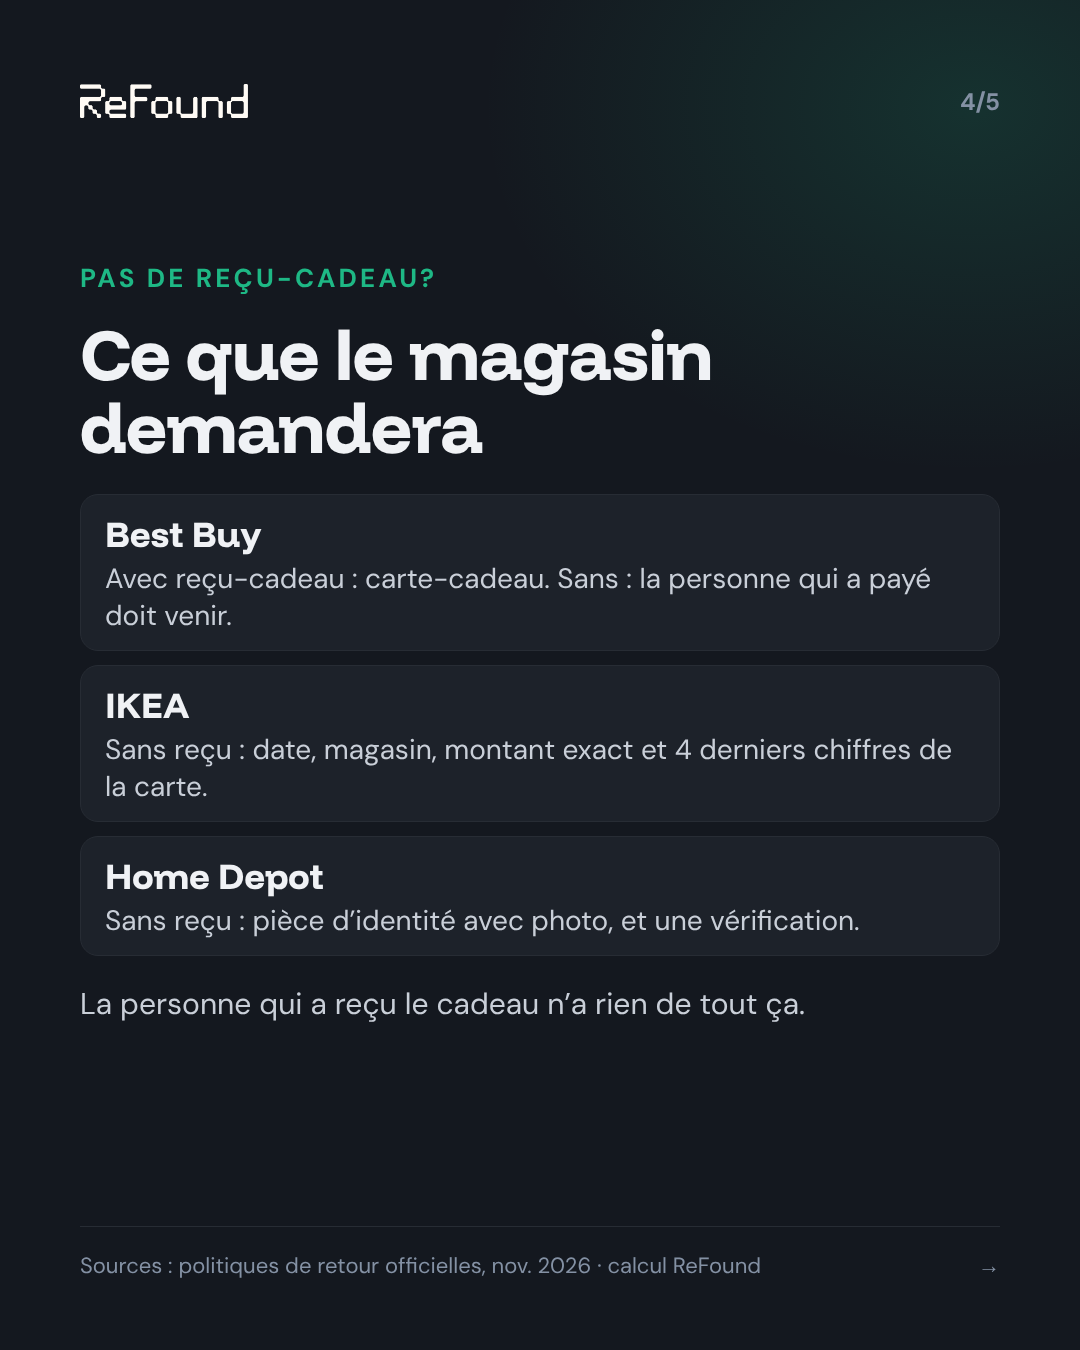
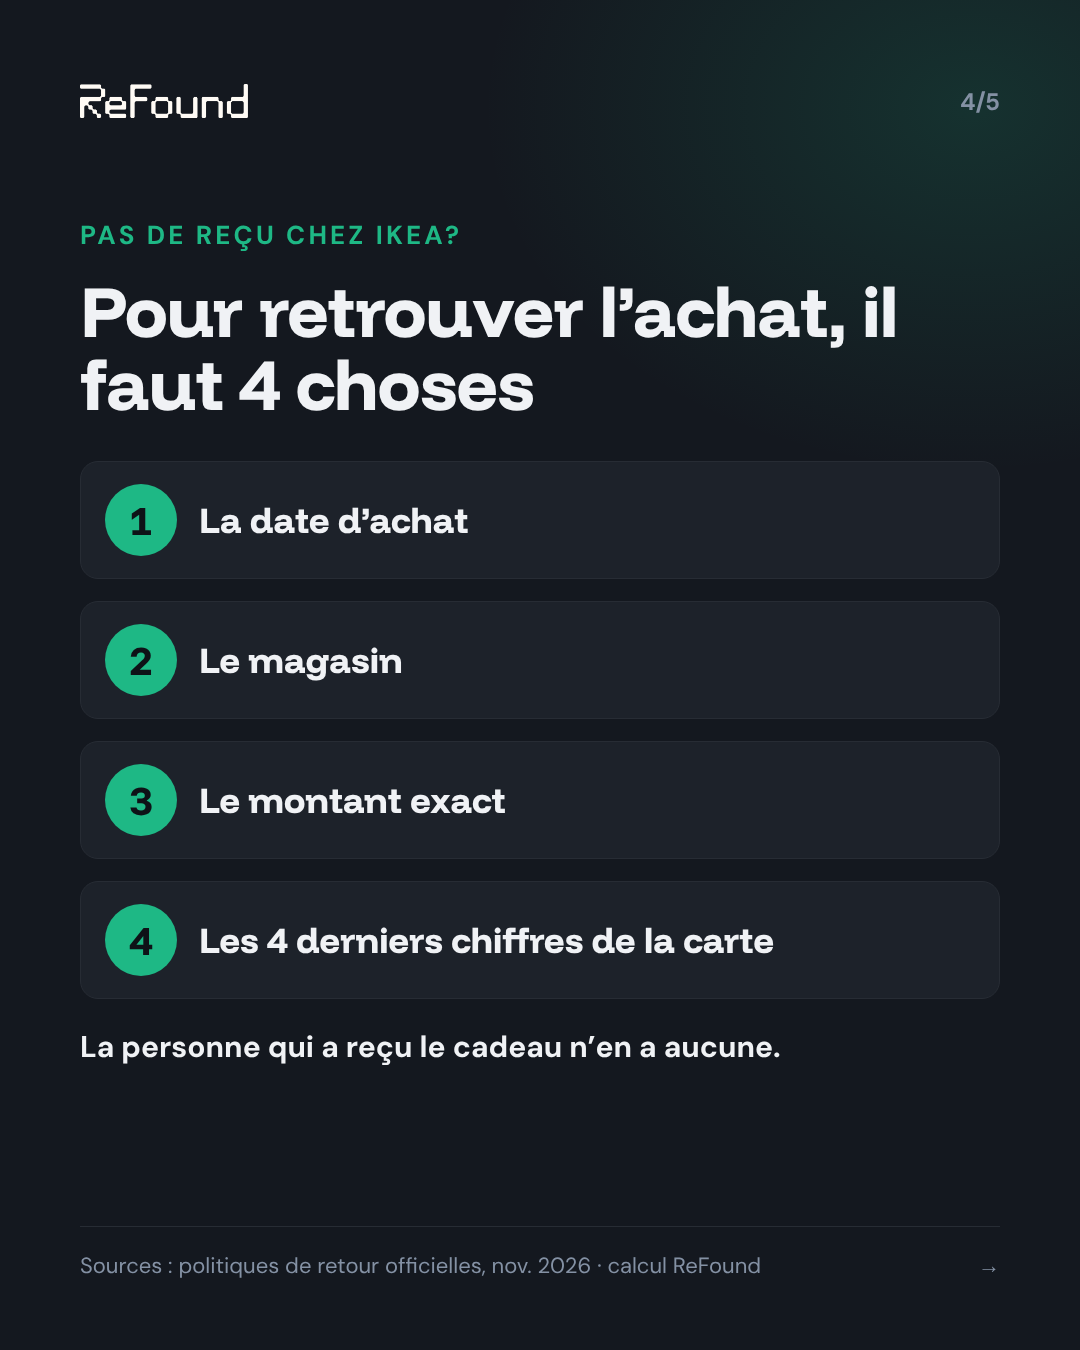
retourner-cadeau-noel: simpler slide 4 (IKEA, 4 things), app capture without English Share button
Claude-Session: https://claude.ai/code/session_01RobFqgR2K4ctFiasTkgThL

Changed region(s): [[0.0611, 0.1556, 0.8556, 0.8089], [0.4278, 0.5289, 0.7333, 0.56], [0.7639, 0.5289, 0.8861, 0.56]]

diff --git a/tools/render-carousel.js b/tools/render-carousel.js
@@ -47,7 +47,7 @@ const CSS = [font('Funnel Display', FD + '700-normal.woff2', 700), font('Funnel 
 .ls{list-style:none;padding:0;margin-top:40px;display:grid;gap:22px;counter-reset:n}.ls li{counter-increment:n;display:grid;grid-template-columns:72px 1fr;column-gap:22px;background:var(--card);border:1px solid var(--line);border-radius:18px;padding:22px 24px;align-items:center}.ls li:before{content:counter(n);grid-row:1/3;width:72px;height:72px;border-radius:50%;background:var(--green);color:#0E1217;font-family:'Funnel Display';font-weight:800;font-size:40px;display:flex;align-items:center;justify-content:center}.ls li span{font-weight:800;font-size:36px}.ls li div{color:#C9CFD8;font-size:28px;margin-top:4px}
 .rc{margin-top:44px;background:#F4F1E8;border-radius:10px;padding:30px 34px;transform:rotate(-1.5deg);box-shadow:0 24px 50px rgba(0,0,0,.4);display:grid;gap:14px}.rl{display:grid;grid-template-columns:auto 1fr;gap:26px;align-items:center;font-family:ui-monospace,Menlo,monospace;font-weight:700;font-size:38px;color:#2A2D33;padding:8px 12px;border-radius:6px}.rl i{display:block;height:20px;background:#C9C4B8;border-radius:5px}.rl.hl{background:rgba(246,184,40,.6);outline:4px solid #E0A315}
 .ex{margin-top:36px;background:var(--card);border:1px solid var(--line);border-radius:20px;padding:24px 28px;display:grid;gap:12px}.exl{color:var(--muted);font-size:24px;font-weight:700;text-transform:uppercase;letter-spacing:.08em}.ex .pr{justify-self:start}.exr{display:flex;gap:20px;align-items:center}.exr .ph{width:110px;height:110px;flex:none}.nm2{font-weight:800;font-size:32px;line-height:1.25}
-.ls.pl{gap:14px;margin-top:30px}.ls.pl li{grid-template-columns:1fr;padding:16px 24px}.ls.pl li:before{display:none}.cta:has(.shot) .t{font-size:72px}.shot{display:block;width:100%;margin-top:40px;border-radius:28px;box-shadow:0 24px 50px rgba(0,0,0,.45)}.cta .t{font-size:84px}.url{margin-top:44px;font-family:'Funnel Display';font-weight:800;font-size:56px;color:var(--green)}`;
+.ls li.nod:before{grid-row:auto}.ls li.nod span{align-self:center}.ls.pl{gap:14px;margin-top:30px}.ls.pl li{grid-template-columns:1fr;padding:16px 24px}.ls.pl li:before{display:none}.cta:has(.shot) .t{font-size:72px}.shot{display:block;width:620px;margin-top:40px;border-radius:28px;box-shadow:0 24px 50px rgba(0,0,0,.45)}.cta .t{font-size:84px}.url{margin-top:44px;font-family:'Funnel Display';font-weight:800;font-size:56px;color:var(--green)}`;
 
 function slide(d, i, n, src, tt) {
   const top = `<div class="top"><img src="${LOGO}"><span>${i}/${n}</span></div>`;
@@ -60,7 +60,7 @@ function slide(d, i, n, src, tt) {
     body = `<div class="eyebrow">${d.eyebrow}</div><div class="t h" style="font-size:70px">${d.title}</div><div class="rows">${d.rows.map(([ix, badge, col]) => {
       const it = r.items[ix]; const ph = photo(it); return `<div class="r${ph ? ' wp' : ''}">${ph ? `<div class="ph"><img src="${ph}"></div>` : ''}<div class="pr">${esc(it.printed)}</div><div class="nm">${esc(d.names && d.names[ix] || it.name)}</div><div class="bd" style="border-color:${col};color:${col}">${esc(badge)}</div></div>`; }).join('')}</div>`;
   }
-  if (d.type === 'list') body = `<div class="eyebrow">${d.eyebrow}</div><div class="t h" style="font-size:72px">${d.title}</div><ol class="ls${d.plain ? ' pl' : ''}">${d.items.map(x => `<li><span class="h">${x[0]}</span><div>${x[1]}</div></li>`).join('')}</ol>${d.text ? `<div class="b" style="font-size:30px;margin-top:28px">${d.text}</div>` : ''}`;
+  if (d.type === 'list') body = `<div class="eyebrow">${d.eyebrow}</div><div class="t h" style="font-size:72px">${d.title}</div><ol class="ls${d.plain ? ' pl' : ''}">${d.items.map(x => `<li${x[1] ? '' : ' class="nod"'}><span class="h">${x[0]}</span>${x[1] ? `<div>${x[1]}</div>` : ''}</li>`).join('')}</ol>${d.text ? `<div class="b" style="font-size:30px;margin-top:28px">${d.text}</div>` : ''}`;
   if (d.type === 'match') body = `<div class="eyebrow">${d.eyebrow}</div><div class="t h" style="font-size:80px">${d.title}</div><div class="rc">${d.lines.map(l => `<div class="rl${l.hl ? ' hl' : ''}"><span>${l.code}</span><i style="width:${l.w || 220}px"></i></div>`).join('')}</div><div class="b">${d.text}</div>`;
   if (d.type === 'cta') {
     let ex = '';

diff --git a/social/retourner-cadeau-noel/slides.js b/social/retourner-cadeau-noel/slides.js
@@ -8,6 +8,7 @@
 // v3 après la ronde 2 (7,5 / 7 / 8,5) : conseils génériques remplacés par ce que l'app fait de plus qu'une photo (facts/product.md : recherche du reçu complet, mode retour, partage — gratuits).
 // v4 (demande de David) : l'app seulement à la dernière diapo, nommée « l'app » ; diapo 4 = ce que les magasins demandent sans reçu (article, 12 nov. 2026).
 // Ronde 4 : 7,5 / 7,5 / 8,5 ; dernière diapo reliée au problème (partage du reçu).
+// v5 : diapo 4 simplifiée (David ne la comprenait pas) : une seule règle, IKEA sans reçu, 4 éléments.
 // Finale ronde 3 : Julie 8, Samuel 7,5, Gilles 9. Reste : aucune capture d'écran de l'app (demander à David une vraie capture du mode retour).
 module.exports = {
   fr: { src: 'Sources : politiques de retour officielles, nov. 2026 · calcul ReFound', slides: [
@@ -20,11 +21,9 @@ module.exports = {
       ['Best Buy', '10 janv. · Mais aucun retour en magasin le 26 déc.']],
       text: 'Électronique : télé, son, photo, téléphones. Walmart n’a pas annoncé de prolongation des Fêtes.' },
     { type: 'text', eyebrow: 'Le vrai problème', title: 'Le cadeau est chez eux. Le reçu est chez vous.', text: 'Pour un retour, le magasin demande une preuve d’achat. C’est la personne qui a payé qui l’a.' },
-    { type: 'list', plain: true, eyebrow: 'Pas de reçu-cadeau?', title: 'Ce que le magasin demandera', items: [
-      ['Best Buy', 'Avec reçu-cadeau : carte-cadeau. Sans : la personne qui a payé doit venir.'],
-      ['IKEA', 'Sans reçu : date, magasin, montant exact et 4 derniers chiffres de la carte.'],
-      ['Home Depot', 'Sans reçu : pièce d’identité avec photo, et une vérification.']],
-      text: 'La personne qui a reçu le cadeau n’a rien de tout ça.' },
+    { type: 'list', eyebrow: 'Pas de reçu chez IKEA?', title: 'Pour retrouver l’achat, il faut 4&nbsp;choses', items: [
+      ['La date d’achat', ''], ['Le magasin', ''], ['Le montant exact', ''], ['Les 4 derniers chiffres de la carte', '']],
+      text: '<b>La personne qui a reçu le cadeau n’en a aucune.</b>' },
     { type: 'cta', eyebrow: 'Gratuit · iPhone et Android', title: 'L’app ReFound garde le reçu de chaque cadeau', img: 'assets/app-partage-recu.png', text: 'Prenez-le en photo en emballant le cadeau, et envoyez-le à la personne qui fera l’échange.' }] },
   en: { src: 'Sources: official return policies, Nov. 2026 · ReFound calculation', slides: [
     { type: 'stat', eyebrow: 'Gift bought on Black Friday', stat: '2 days', title: 'after Christmas to return electronics at Canadian Tire', text: '30 days from the purchase, not from Christmas.<br><b>November 27 + 30 days = December 27.</b>' },
@@ -36,10 +35,8 @@ module.exports = {
       ['Best Buy', 'Jan. 10 · But no in-store returns on Dec. 26']],
       text: 'Electronics: TVs, audio, cameras, phones. Walmart hasn’t announced a holiday extension.' },
     { type: 'text', eyebrow: 'The real problem', title: 'The gift is at their place. The receipt is at yours.', text: 'Stores ask for proof of purchase. The person who paid has it.' },
-    { type: 'list', plain: true, eyebrow: 'No gift receipt?', title: 'What the store will ask for', items: [
-      ['Best Buy', 'With a gift receipt: a gift card. Without: the person who paid has to come in.'],
-      ['IKEA', 'No receipt: date, store, exact amount and the card’s last 4 digits.'],
-      ['Home Depot', 'No receipt: government photo ID, and a verification.']],
-      text: 'The person who received the gift has none of that.' },
+    { type: 'list', eyebrow: 'No receipt at IKEA?', title: 'To find the purchase, they need 4&nbsp;things', items: [
+      ['The purchase date', ''], ['The store', ''], ['The exact amount', ''], ['The card’s last 4 digits', '']],
+      text: '<b>The person who got the gift has none of them.</b>' },
     { type: 'cta', eyebrow: 'Free · iPhone and Android', title: 'The ReFound app keeps every gift receipt', text: 'Snap it while you wrap the gift, then send it to whoever makes the exchange.' }] }
 };

diff --git a/social/retourner-cadeau-noel/caption.md b/social/retourner-cadeau-noel/caption.md
@@ -17,7 +17,7 @@ Enregistrez-le pour le Vendredi fou, et envoyez-le à la personne qui achète le
 1. Cadeau électronique acheté au Vendredi fou : 2 jours après Noël pour le retourner chez Canadian Tire. 27 novembre + 30 jours = 27 décembre.
 2. Acheté le 27 novembre, à rapporter avant : Canadian Tire et Home Depot, télé et électronique le 27 décembre, le reste le 25 février ; Walmart, électronique le 27 décembre ; RONA, électroménagers le 27 décembre ; Costco, télé et électronique le 25 février ; Best Buy, le 10 janvier, sans retour en magasin le 26 décembre.
 3. Le cadeau est chez eux, le reçu est chez vous : la preuve d'achat appartient à la personne qui a payé.
-4. Pas de reçu-cadeau? Best Buy : carte-cadeau avec le reçu-cadeau, sinon la personne qui a payé doit venir ; IKEA : date, magasin, montant exact et 4 derniers chiffres de la carte ; Home Depot : pièce d'identité avec photo et une vérification.
+4. Pas de reçu chez IKEA? Pour retrouver l'achat, il faut 4 choses : la date d'achat, le magasin, le montant exact et les 4 derniers chiffres de la carte. La personne qui a reçu le cadeau n'en a aucune.
 5. L'app ReFound, gratuite sur iPhone et Android, garde le reçu de chaque cadeau : prenez-le en photo en emballant le cadeau, et envoyez-le à la personne qui fera l'échange.
 
 ## EN
@@ -37,5 +37,5 @@ Save it for Black Friday, and send it to whoever buys the gifts at your place.
 1. Electronics gift bought on Black Friday: 2 days after Christmas to return it at Canadian Tire. November 27 + 30 days = December 27.
 2. Bought November 27, bring it back by: Canadian Tire and Home Depot, TVs and electronics Dec. 27, everything else Feb. 25; Walmart, electronics Dec. 27; RONA, appliances Dec. 27; Costco, TVs and electronics Feb. 25; Best Buy, Jan. 10, no in-store returns Dec. 26.
 3. The gift is at their place, the receipt is at yours: proof of purchase belongs to the person who paid.
-4. No gift receipt? Best Buy: gift card with a gift receipt, otherwise the person who paid has to come in; IKEA: date, store, exact amount and the card's last 4 digits; Home Depot: government photo ID and a verification.
+4. No receipt at IKEA? To find the purchase, they need 4 things: the purchase date, the store, the exact amount and the card's last 4 digits. The person who got the gift has none of them.
 5. The ReFound app, free on iPhone and Android, keeps every gift receipt: snap it while you wrap the gift, then send it to whoever makes the exchange.
